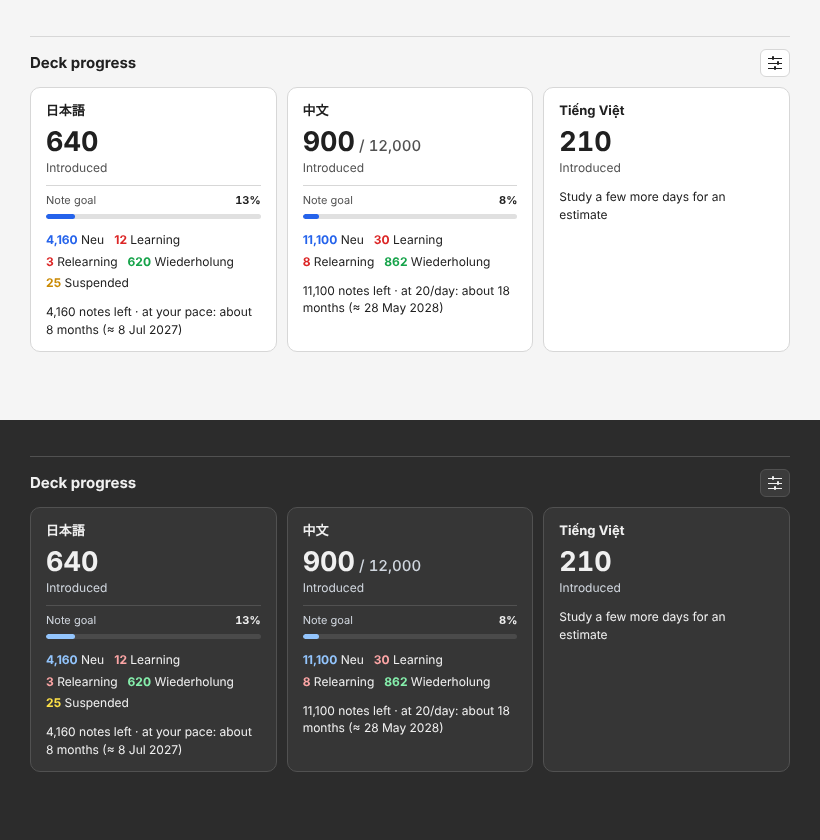
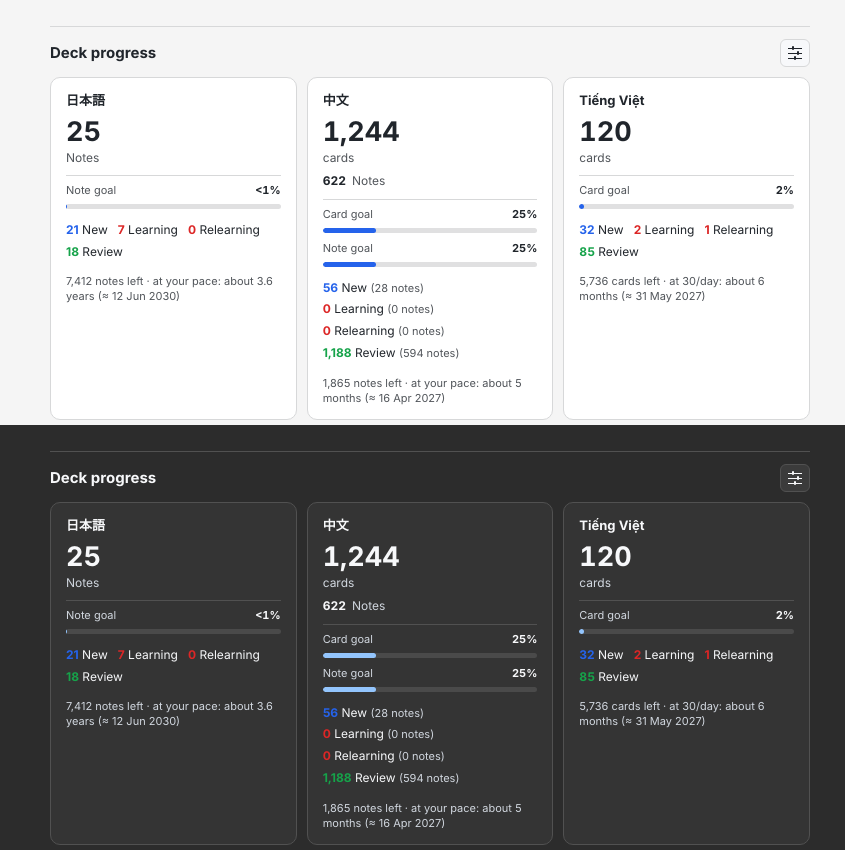
Deck Progress 1.5.0: state row follows Count (cards/notes/both), estimate counts unstarted notes, quieter estimate line; Toolkit 1.2.0
Claude-Session: https://claude.ai/code/session_01S9Q8PPq5j3njvhRQh6H6ew

diff --git a/learning_toolkit/deck_progress/web/panel.css b/learning_toolkit/deck_progress/web/panel.css
@@ -203,9 +203,11 @@
 #deck-progress-panel .dp-relearning b { color: var(--state-learn, #dc2626); }
 #deck-progress-panel .dp-review b { color: var(--state-review, #16a34a); }
 #deck-progress-panel .dp-suspended b { color: var(--state-suspended, #ca8a04); }
+#deck-progress-panel .dp-st-sub { color: var(--dp-muted); font-size: 11px; }
 #deck-progress-panel .dp-estimate {
   display: block;
-  margin-top: 6px;
-  font-size: 12px;
-  color: var(--dp-ink);
+  margin-top: 8px;
+  font-size: 11px;
+  line-height: 1.35;
+  color: var(--dp-muted);
 }

diff --git a/learning_toolkit/deck_progress/core.py b/learning_toolkit/deck_progress/core.py
@@ -89,6 +89,16 @@ class StateCounts:
     relearning: int = 0
     review: int = 0
     suspended: int = 0
+    # The same states for notes: each note counts once, in its most active state
+    # (relearning, then learning, then review, then new; suspended only when all its cards are).
+    new_notes: int = 0
+    learning_notes: int = 0
+    relearning_notes: int = 0
+    review_notes: int = 0
+    suspended_notes: int = 0
+
+    def get(self, state: str, unit: str) -> int:
+        return getattr(self, state + ("_notes" if unit == "notes" else ""))
 
 
 @dataclass(frozen=True)
@@ -355,10 +365,11 @@ def _scope_sql(deck_ids: tuple[int, ...], table: str = "") -> tuple[str, tuple[i
 
 
 def state_counts(db: Any, deck_ids: tuple[int, ...], counter: Counter) -> StateCounts:
-    """Cards per state in the counter decks, like Anki marks them. Suspended cards are counted apart."""
+    """Cards and notes per state in the counter decks, like Anki marks them. Suspended cards are counted apart."""
     if not deck_ids:
         return StateCounts()
     totals = [0, 0, 0, 0, 0]
+    notes: dict[int, list[int]] = {}
     buried = "" if counter.include_buried else " AND queue NOT IN (-2, -3)"
     for start in range(0, len(deck_ids), SQL_BATCH):
         where, params = _scope_sql(deck_ids[start:start + SQL_BATCH])
@@ -366,8 +377,28 @@ def state_counts(db: Any, deck_ids: tuple[int, ...], counter: Counter) -> StateC
             "SELECT SUM(type = 0 AND queue != -1), SUM(type = 1 AND queue != -1), SUM(type = 3 AND queue != -1), "
             f"SUM(type = 2 AND queue != -1), SUM(queue = -1) FROM cards WHERE {where}{buried}", *params)
         totals = [t + int(v or 0) for t, v in zip(totals, row or ())]
-    suspended = totals[4] if counter.include_suspended else 0
-    return StateCounts(totals[0], totals[1], totals[2], totals[3], suspended)
+        for nid, relearn, learn, review, active in db.all(
+                "SELECT nid, MAX(type = 3 AND queue != -1), MAX(type = 1 AND queue != -1), "
+                f"MAX(type = 2 AND queue != -1), MAX(queue != -1) FROM cards WHERE {where}{buried} GROUP BY nid",
+                *params):
+            flags = notes.setdefault(int(nid), [0, 0, 0, 0])
+            for i, value in enumerate((relearn, learn, review, active)):
+                flags[i] = max(flags[i], int(value or 0))
+    by_note = {"new": 0, "learning": 0, "relearning": 0, "review": 0, "suspended": 0}
+    for relearn, learn, review, active in notes.values():
+        if not active:
+            by_note["suspended"] += 1
+        elif relearn:
+            by_note["relearning"] += 1
+        elif learn:
+            by_note["learning"] += 1
+        elif review:
+            by_note["review"] += 1
+        else:
+            by_note["new"] += 1
+    if not counter.include_suspended:
+        totals[4] = by_note["suspended"] = 0
+    return StateCounts(*totals, *(by_note[k] for k in ("new", "learning", "relearning", "review", "suspended")))
 
 
 def first_study_days(db: Any, deck_ids: tuple[int, ...], unit: str, day_start: int) -> dict[int, int]:
@@ -461,17 +492,24 @@ def collect_snapshot(col: Any, options: Options) -> Snapshot:
         states = state_counts(col.db, ids, counter) if counter.show_states and ids else None
         estimate, note = None, ""
         if counter.estimate != "off" and ids and not problems:
+            # The estimate is about starting new material: what is left are the notes (cards) in the counter
+            # and goal decks you have never answered, whatever the counter itself counts.
             unit = "notes" if counter.unit in ("notes", "both") else "cards"
-            totals = goal_counts if goal_counts is not None else counts
-            done = counts.notes if unit == "notes" else counts.cards
-            total = totals.total_notes if unit == "notes" else totals.total_cards
+            extra_ids: tuple[int, ...] = ()
+            if counter.goal_decks:
+                goal_ids, goal_problems = resolve_decks(replace(counter, decks=counter.goal_decks, stage_a_only=False), decks)
+                if not goal_problems:
+                    extra_ids = tuple(sorted(set(goal_ids) - set(ids)))
+            started = counts_for(ids, replace(counter, counter_states=ANSWERED_STATES, all_note_cards=False), extra_ids)
+            done = started.notes if unit == "notes" else started.cards
+            total = started.total_notes if unit == "notes" else started.total_cards
             days = None
             if counter.estimate == "pace":
                 try:
                     day_start = int(col.sched.day_cutoff) - 86400
                 except Exception:
                     day_start = int(time.time()) // 86400 * 86400
-                days = first_study_days(col.db, ids, unit, day_start)
+                days = first_study_days(col.db, ids + extra_ids, unit, day_start)
             estimate, note = make_estimate(max(0, total - done), counter, unit, days)
         results.append(CounterResult(counter, counts, ids, problems, goal_counts, states, estimate, note))
     return Snapshot(tuple(results), decks)

diff --git a/learning_toolkit/deck_progress/display.py b/learning_toolkit/deck_progress/display.py
@@ -42,14 +42,23 @@ def _goal_row(label: str, number: int, total: int, *, fraction: bool, bar: bool)
     )
 
 
-def _states_html(options: Options, states: StateCounts) -> str:
+def _states_html(options: Options, states: StateCounts, unit: str) -> str:
+    """The state row in the counter's unit: cards, notes, or both (cards first, notes small)."""
+    units = ("cards", "notes") if unit == "both" else (unit,)
     chips = []
     for state in SHOWN_STATES:
-        number = getattr(states, state)
-        if state == "suspended" and not number:
+        numbers = [states.get(state, u) for u in units]
+        if state == "suspended" and not any(numbers):
             continue
-        chips.append(f'<span class="dp-st dp-{state}"><b>{number:,}</b> {escape(options.label(state))}</span>')
-    return '<span class="dp-states">' + "".join(chips) + "</span>"
+        sub = f' <span class="dp-st-sub">({numbers[1]:,} notes)</span>' if len(numbers) == 2 else ""
+        chips.append(f'<span class="dp-st dp-{state}"><b>{numbers[0]:,}</b> {escape(options.label(state))}{sub}</span>')
+    if unit == "cards":
+        tip = "Cards in the counter decks by state, as Anki marks them."
+    else:
+        tip = ("Cards in the counter decks by state, as Anki marks them. " if unit == "both" else "") + (
+            "Each note counts once, in its most active state: relearning, then learning, then review, then new. "
+            "A note is suspended only when all its cards are.")
+    return f'<span class="dp-states" title="{escape(tip, quote=True)}">' + "".join(chips) + "</span>"
 
 
 def _span(days: int) -> str:
@@ -77,8 +86,9 @@ def _estimate_html(estimate: Estimate | None, note: str, today: date | None = No
         tip = f"Fixed pace: {per} {estimate.unit} per day."
     else:
         line = f"{estimate.remaining:,} {estimate.unit} left · at your pace: {_span(estimate.calendar_days)} (≈ {when})"
-        tip = (f"Your pace: about {per} new {estimate.unit} per study day, from {estimate.basis}. "
-               f"{estimate.study_days} study days still needed. Days without new {estimate.unit} don't lower the pace.")
+        tip = (f"Your pace: about {per} new {estimate.unit} per study day, from {estimate.basis} "
+               f"(recent days weigh more). {estimate.study_days} study days still needed. "
+               f"Days without new {estimate.unit} don't lower the pace.")
     return f'<span class="dp-estimate" title="{escape(tip, quote=True)}">{escape(line)}</span>'
 
 
@@ -165,7 +175,7 @@ def panel_html(options: Options, snapshot: Snapshot | None, *, updating=False, e
         goal_html = '<span class="dp-goals">' + "".join(goals) + '</span>' if goals else ""
         extra = ""
         if result.states is not None and not result.problems:
-            extra += _states_html(options, result.states)
+            extra += _states_html(options, result.states, counter.unit)
         if counter.estimate != "off" and not result.problems:
             extra += _estimate_html(result.estimate, result.estimate_note)
         warning = '<span class="dp-warning">Check deck selection</span>' if result.problems else ""

diff --git a/tests/test_deck_progress.py b/tests/test_deck_progress.py
@@ -67,8 +67,16 @@ def test_states_like_anki(col):
     st = snap.results[0].states
     assert (st.learning, st.relearning, st.review, st.suspended) == (1, 1, 6, 1)
     assert st.new == 80 - 1 - 1 - 6 - 1
+    # notes: each note once, in its most active state; nids[8] still has an active new card
+    assert (st.new_notes, st.learning_notes, st.relearning_notes, st.review_notes, st.suspended_notes) == (32, 1, 1, 6, 0)
     html = display.panel_html(core.Options(counters=(counter(did, show_states=True),), state_labels={"new": "Neu"}), snap)
-    assert "Neu" in html and "Learning" in html and 'dp-suspended' in html
+    assert "<b>32</b> Neu" in html and "Learning" in html and "dp-suspended" not in html
+    both = core.replace(counter(did, show_states=True), unit="both")
+    html = display.panel_html(core.Options(counters=(both,)), core.collect_snapshot(c, core.Options(counters=(both,))))
+    assert "<b>71</b> New" in html and "32 notes" in html and "dp-suspended" in html
+    cards = core.replace(counter(did, show_states=True), unit="cards")
+    html = display.panel_html(core.Options(counters=(cards,)), core.collect_snapshot(c, core.Options(counters=(cards,))))
+    assert "<b>71</b> New" in html and "notes</span>" not in html
 
 
 def test_pace_ignores_long_breaks():
@@ -97,6 +105,27 @@ def test_estimate_pace_and_fixed(col):
     assert (est.remaining, est.calendar_days) == (25, 3)
     html = display._estimate_html(est, "", today=date(2026, 11, 20))
     assert "25 notes left" in html and "10/day" in html and "23 Nov" in html
+
+
+def test_estimate_counts_unstarted_notes_whatever_the_counter_counts(col):
+    c, did = col
+    nids = c.find_notes("")
+    for day, chunk in enumerate((nids[0:3], nids[3:6], nids[6:9], nids[9:12], nids[12:15])):
+        _study(c, chunk, day + 1)
+    # a counter of mature cards only (none here) must not turn all 40 notes into "left"
+    mature = counter(did, estimate="pace", counter_states=("relearning", "mature"))
+    est = core.collect_snapshot(c, core.Options(counters=(mature,))).results[0].estimate
+    assert est.remaining == 25
+    # notes waiting in a goal (queue) deck are still to be started
+    queue = c.decks.id("Lang::JP::Queue")
+    model = c.models.by_name("Basic (and reversed card)")
+    for i in range(10):
+        n = c.new_note(model)
+        n["Front"], n["Back"] = f"q{i}", f"q{i}"
+        c.add_note(n, queue)
+    goal = core.replace(mature, goal_decks=(core.DeckRef(queue, "Lang::JP::Queue"),))
+    est = core.collect_snapshot(c, core.Options(counters=(goal,))).results[0].estimate
+    assert est.remaining == 35
 
 
 def test_no_history_gives_a_hint(col):

diff --git a/learning_toolkit/deck_progress/settings.py b/learning_toolkit/deck_progress/settings.py
@@ -277,7 +277,7 @@ class SettingsDialog(QDialog):
         self.unit.addItem("Cards", "cards")
         self.unit.addItem("Notes", "notes")
         self.unit.addItem("Cards and notes", "both")
-        self.unit.setToolTip("Count individual cards, distinct notes, or both.")
+        self.unit.setToolTip("Count individual cards, distinct notes, or both. This also decides what the card-state row and the estimate count.")
         self.form.addRow("Count", self.unit)
         self.counter_states = StateSelection("Counter card states")
         self.counter_states.setToolTip("Choose the scheduling states to count.")
@@ -334,7 +334,7 @@ class SettingsDialog(QDialog):
         details_tab = QWidget()
         details = QVBoxLayout(details_tab)
         self.show_states = QCheckBox("Show card states (New, Learning, Relearning, Review, Suspended)")
-        self.show_states.setToolTip("Cards in the counter decks by state, in Anki's colours. Suspended cards are counted apart.")
+        self.show_states.setToolTip("Cards and/or notes in the counter decks by state (follows Count), in Anki's colours. Suspended cards are counted apart.")
         details.addWidget(self.show_states)
         rename = QPushButton("Rename states…")
         rename.setAutoDefault(False)

diff --git a/docs/versions.md b/docs/versions.md
@@ -6,7 +6,7 @@ so a part behaves the same in the toolkit and on its own.
 | You want | Download |
 |---|---|
 | All eight parts | `learning_toolkit-<version>.ankiaddon` from a `toolkit-v…` release |
-| Only one part | `<package>-<version>.ankiaddon` from that part's release (e.g. `deck-progress-v1.4.0`) |
+| Only one part | `<package>-<version>.ankiaddon` from that part's release (e.g. `deck-progress-v1.5.0`) |
 | An older version | the release of that version, or **Older versions** (the last stand-alone builds) |
 
 All releases: [Releases](../../../releases). Each release lists what changed.
@@ -27,11 +27,11 @@ Whenever a part gets a new version, the toolkit gets one too, and its release na
 | Quick Note Mover | `note_stage_mover` | 1.5.1 |
 | Change Deck counts | `change_deck_counts` | 1.1.1 |
 | Words Left | `words_left` | 1.0.1 |
-| Deck Progress | `deck_progress` | 1.4.0 |
+| Deck Progress | `deck_progress` | 1.5.0 |
 | Search Assistant | `simple_search_assistant` | 4.0.0 |
 | Sound Volume | `sound_volume` | 1.0.1 |
 | Study Session Clock | `study_session_clock` | 2.4.1 |
-| **Learning Toolkit** | `learning_toolkit` | 1.1.0 |
+| **Learning Toolkit** | `learning_toolkit` | 1.2.0 |
 
 ## Installing any file
 

diff --git a/docs/changelog.md b/docs/changelog.md
@@ -1,5 +1,16 @@
 # Changelog
 
+## Learning Toolkit 1.2.0 – 2026-11-20
+
+- **Deck Progress 1.5.0**
+  - The card-state row follows the counter's *Count* setting: cards, notes, or cards and notes (notes in brackets).
+    In note mode each note counts once, in its most active state.
+  - The finish estimate always counts the notes (or cards) you have never answered in the counter and goal decks.
+    It no longer depends on which card states the counter counts, so a counter of mature cards doesn't make every
+    note "left".
+  - The pace also uses words started in the goal decks.
+  - The estimate line is smaller and quieter; its tooltip explains the pace.
+
 ## Learning Toolkit 1.1.0 – 2026-11-20
 
 - **Search Assistant 4.0.0**

diff --git a/README.md b/README.md
@@ -24,7 +24,7 @@ menu, one settings file and one place to switch parts on and off.
 
 Requires Anki 25.02 or newer.
 
-**Only want one part?** Every part is also released on its own (e.g. `deck_progress-1.4.0.ankiaddon`), and
+**Only want one part?** Every part is also released on its own (e.g. `deck_progress-1.5.0.ankiaddon`), and
 older versions stay downloadable. How versions, upgrading and downgrading work: [docs/versions.md](docs/versions.md).
 What changed: [docs/changelog.md](docs/changelog.md).
 
